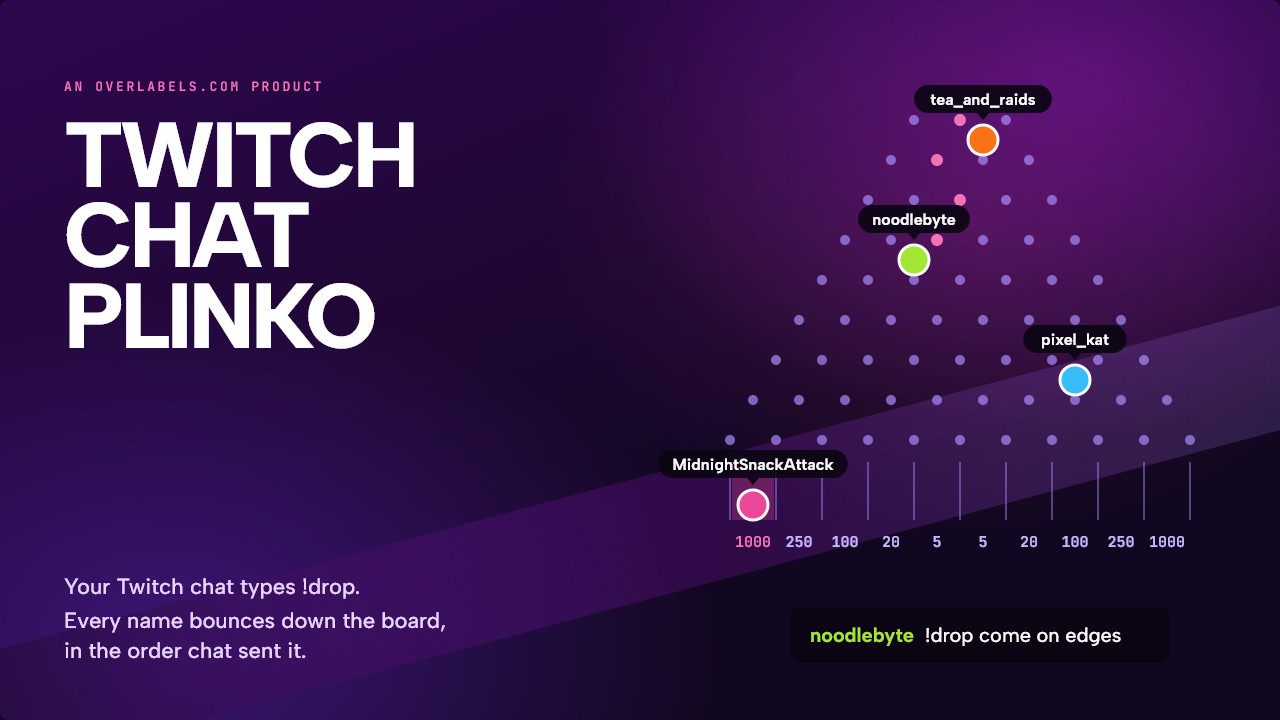
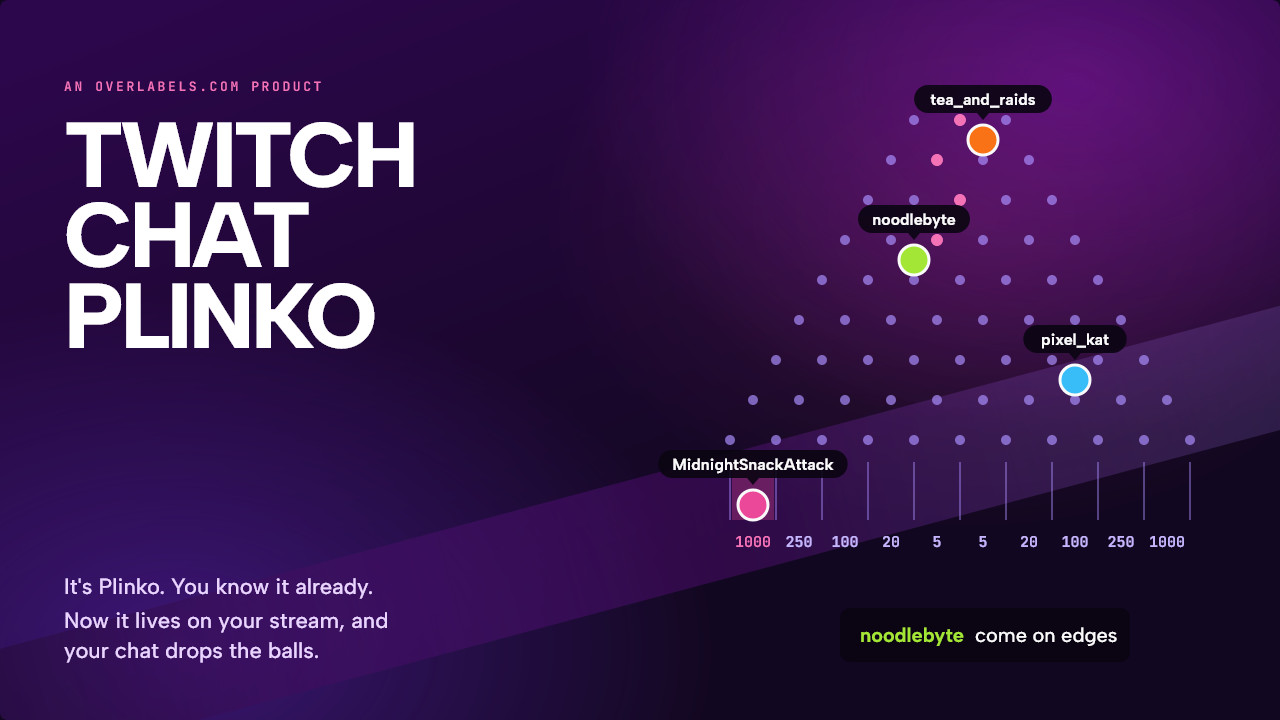
copy(plinko): it's Plinko, now on your stream; !drop is the default, not the rule
The product page leads with the game everyone already knows, and every
!drop on the page, the share image, the overlay document and llms.txt now
reads as the default word rather than the only one, since each streamer
picks their own on the Plinko settings page.

Changed region(s): [[0.0312, 0.8556, 0.3438, 0.9167], [0.625, 0.8556, 0.875, 0.9167], [0.0312, 0.7944, 0.2812, 0.825]]

diff --git a/tests/Feature/ProductTwitchChatPlinkoTest.php b/tests/Feature/ProductTwitchChatPlinkoTest.php
@@ -127,7 +127,7 @@ it('has no wires beyond the overlay and its OBS link', function () {
 it('serves a public pitch page with the hero as its share image', function () {
     $response = $this->get(route('products.show', 'twitch-chat-plinko'))->assertOk();
 
-    $response->assertSee('Your chat types !drop. Their name bounces down the board.')
+    $response->assertSee('It&#039;s Plinko. You know it already. Now it lives on your stream.', false)
         ->assertSee('Get Twitch Chat Plinko')
         ->assertSee('/products/twitch-chat-plinko-hero.jpg')
         ->assertSee('/products/twitch-chat-plinko/play-board.svg');

diff --git a/resources/recipes/twitch-chat-plinko/plinko.md b/resources/recipes/twitch-chat-plinko/plinko.md
@@ -6,7 +6,7 @@ author: Overlabels
 
 # Twitch Chat Plinko
 
-A Plinko board your Twitch chat plays. Every !drop in chat drops a ball with that chatter's name on it, in the order chat sends them, one ball each at a time. Real bouncing off every peg, 1000 points at the rare edges, a line of who is next and the top scores so far.
+A Plinko board your Twitch chat plays. Every !drop in chat (or the word you pick in your Plinko settings) drops a ball with that chatter's name on it, in the order chat sends them, one ball each at a time. Real bouncing off every peg, 1000 points at the rare edges, a line of who is next and the top scores so far.
 
 An Overlabels **static overlay** by Overlabels.
 
